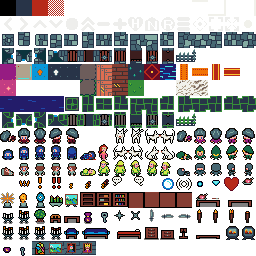
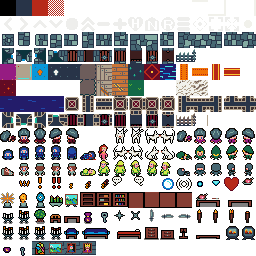
Tileset update (fortress and other tweaks)

Changed region(s): [[0.0, 0.25, 1.0, 0.5], [0.0, 0.3125, 0.0625, 0.375]]

diff --git a/src/tilesets.ts b/src/tilesets.ts
@@ -20,7 +20,9 @@ export type TileSet = {
     touchButtons: {[id:string]:TileInfo};
     namedTiles: {[id:string]:TileInfo};
     terrainTiles: Array<TileInfo>;
+    fortressTerrainTiles: Array<TileInfo>;
     itemTiles: Array<TileInfo>;
+    fortressItemTiles: Array<TileInfo>;
     guardStateTiles: Array<TileInfo>;
     npcTiles: Array<TileInfo>;
     playerTiles: {
@@ -154,6 +156,41 @@ const tileSet31Color:TileSet = {
         {textureIndex: r([8,   4]),  color:colorGroundLit,    unlitColor:colorGroundUnlit}, // TerrainType.GardenDoorNS,
         {textureIndex: r([8,   4]),  color:colorGroundLit,    unlitColor:colorGroundUnlit}, // TerrainType.GardenDoorEW,
     ], 
+    fortressTerrainTiles: [ 
+        {textureIndex: r([5,   5]),   color:colorGroundLit,    unlitColor:colorGroundUnlit},// TerrainType.GroundNormal,
+        {textureIndex: r([8,   5]),  color:colorGroundLit,    unlitColor:colorGroundUnlit}, // TerrainType.GroundGrass,
+        {textureIndex: r([10,  4]),  color:colorGroundLit,    unlitColor:colorGroundUnlit}, // TerrainType.GroundWater,
+        {textureIndex: r([0,   5]),  color:colorGroundLit,    unlitColor:colorGroundUnlit}, // TerrainType.GroundMarble,
+        {textureIndex: r([6,   4]),  color:colorWoodFloorLit, unlitColor:colorGroundUnlit}, // TerrainType.GroundWood,
+        {textureIndex: r([6,   5]),  color:colorWoodFloorLit, unlitColor:colorGroundUnlit}, // TerrainType.GroundWoodCreaky,
+        {textureIndex: r([5,   4]),  color:colorGroundLit,    unlitColor:colorGroundUnlit}, // TerrainType.GroundVault,
+        {textureIndex: r([4,   6]),  color:colorWallLit,      unlitColor:colorWallUnlit},   // TerrainType.Wall0000,
+        {textureIndex: r([2,   2]),  color:colorWallLit,      unlitColor:colorWallUnlit},   // TerrainType.Wall0001,
+        {textureIndex: r([4,   2]),  color:colorWallLit,      unlitColor:colorWallUnlit},   // TerrainType.Wall0010,
+        {textureIndex: r([6,   6]),  color:colorWallLit,      unlitColor:colorWallUnlit},   // TerrainType.Wall0011,
+        {textureIndex: r([1,   6]),  color:colorWallLit,      unlitColor:colorWallUnlit},   // TerrainType.Wall0100,
+        {textureIndex: r([9,   6]),  color:colorWallLit,      unlitColor:colorWallUnlit},   // TerrainType.Wall0101,
+        {textureIndex: r([8,   6]),  color:colorWallLit,      unlitColor:colorWallUnlit},   // TerrainType.Wall0110,
+        {textureIndex: r([12,  6]),  color:colorWallLit,      unlitColor:colorWallUnlit},   // TerrainType.Wall0111,
+        {textureIndex: r([3,   6]),  color:colorWallLit,      unlitColor:colorWallUnlit},   // TerrainType.Wall1000,
+        {textureIndex: r([10,  6]),  color:colorWallLit,      unlitColor:colorWallUnlit},   // TerrainType.Wall1001,
+        {textureIndex: r([7,   6]),  color:colorWallLit,      unlitColor:colorWallUnlit},   // TerrainType.Wall1010,
+        {textureIndex: r([14,  6]),  color:colorWallLit,      unlitColor:colorWallUnlit},   // TerrainType.Wall1011,
+        {textureIndex: r([5,   6]),  color:colorWallLit,      unlitColor:colorWallUnlit},   // TerrainType.Wall1100,
+        {textureIndex: r([13,  6]),  color:colorWallLit,      unlitColor:colorWallUnlit},   // TerrainType.Wall1101,
+        {textureIndex: r([11,  6]),  color:colorWallLit,      unlitColor:colorWallUnlit},   // TerrainType.Wall1110,
+        {textureIndex: r([15,  6]),  color:colorWallLit,      unlitColor:colorWallUnlit},   // TerrainType.Wall1111,
+        {textureIndex: r([0,   7]),  color:colorWallLit,      unlitColor:colorWallUnlit},   // TerrainType.OneWayWindowE,
+        {textureIndex: r([2,   7]),  color:colorWallLit,      unlitColor:colorWallUnlit},   // TerrainType.OneWayWindowW,
+        {textureIndex: r([3,   7]),  color:colorWallLit,      unlitColor:colorWallUnlit},   // TerrainType.OneWayWindowN,
+        {textureIndex: r([1,   7]),  color:colorWallLit,      unlitColor:colorWallUnlit},   // TerrainType.OneWayWindowS,
+        {textureIndex: r([11,  7]),  color:colorWallLit,      unlitColor:colorWallUnlit},   // TerrainType.PortcullisNS,
+        {textureIndex: r([11,  7]),  color:colorWallLit,      unlitColor:colorWallUnlit},   // TerrainType.PortcullisEW,
+        {textureIndex: r([8,   7]),  color:colorWallLit,      unlitColor:colorWallUnlit},   // TerrainType.DoorNS,
+        {textureIndex: r([5,   7]),  color:colorWallLit,      unlitColor:colorWallUnlit},   // TerrainType.DoorEW,
+        {textureIndex: r([8,   5]),  color:colorGroundLit,    unlitColor:colorGroundUnlit}, // TerrainType.GardenDoorNS,
+        {textureIndex: r([8,   5]),  color:colorGroundLit,    unlitColor:colorGroundUnlit}, // TerrainType.GardenDoorEW,
+    ], 
     itemTiles: [
         {textureIndex: r([3,  13]),  color:colorPreset.white,      unlitColor:colorItemUnlit}, // ItemType.Chair,
         {textureIndex: r([4,  13]),  color:colorPreset.white,      unlitColor:colorItemUnlit}, // ItemType.Table,
@@ -173,6 +210,32 @@ const tileSet31Color:TileSet = {
         {textureIndex: r([6,   3]),  color:colorWallLit,           unlitColor:colorWallUnlit}, // ItemType.LockedDoorEW,
         {textureIndex: r([11,  3]),  color:colorWallLit,           unlitColor:colorWallUnlit}, // ItemType.PortcullisNS,
         {textureIndex: r([11,  3]),  color:colorWallLit,           unlitColor:colorWallUnlit}, // ItemType.PortcullisEW,
+        {textureIndex: r([0,  13]),  color:colorPreset.white,      unlitColor:colorPreset.white}, // ItemType.TorchUnlit,
+        {textureIndex: r([1,  13]),  color:colorPreset.white,      unlitColor:colorPreset.white}, // ItemType.TorchLit,    
+        {textureIndex: r([12, 13]),  color:colorPreset.yellowTint, unlitColor:colorPreset.yellowTint}, // ItemType.TorchCarry,    
+        {textureIndex: r([0,  15]),  color:colorPreset.white,      unlitColor:colorPreset.white}, // ItemType.PurseCarry,    
+        {textureIndex: r([6,  13]),  color:colorPreset.white,      unlitColor:colorPreset.white}, // ItemType.Key,    
+        {textureIndex: r([1,  15]),  color:colorPreset.white,      unlitColor:colorPreset.white}, // ItemType.KeyCarry,    
+    ],
+    fortressItemTiles: [
+        {textureIndex: r([3,  13]),  color:colorPreset.white,      unlitColor:colorItemUnlit}, // ItemType.Chair,
+        {textureIndex: r([4,  13]),  color:colorPreset.white,      unlitColor:colorItemUnlit}, // ItemType.Table,
+        {textureIndex: r([7,  14]),  color:colorPreset.white,      unlitColor:colorItemUnlit}, // ItemType.BedL,
+        {textureIndex: r([8,  14]),  color:colorPreset.white,      unlitColor:colorItemUnlit}, // ItemType.BedR,
+        {textureIndex: r([10, 14]),  color:colorPreset.white,      unlitColor:colorItemUnlit}, // ItemType.DrawersShort,
+        {textureIndex: r([9,  14]),  color:colorPreset.white,      unlitColor:colorItemUnlit}, // ItemType.DrawersTall,
+        {textureIndex: r([7,  12]),  color:colorPreset.white,      unlitColor:colorItemUnlit}, // ItemType.Bookshelf,
+        {textureIndex: r([5,  12]),  color:colorPreset.white,      unlitColor:colorItemUnlit}, // ItemType.Shelf,
+        {textureIndex: r([14, 14]),  color:colorPreset.white,      unlitColor:colorItemUnlit}, // ItemType.Stove,
+        {textureIndex: r([2,  13]),  color:colorPreset.white,      unlitColor:colorItemUnlit}, // ItemType.Bush,
+        {textureIndex: r([5,  13]),  color:colorPreset.white,      unlitColor:colorPreset.white}, // ItemType.Coin,
+        {textureIndex: r([15, 11]),  color:colorPreset.white,      unlitColor:colorPreset.white}, // ItemType.Health,
+        {textureIndex: r([7,   7]),  color:colorWallLit,           unlitColor:colorWallUnlit}, // ItemType.DoorNS,
+        {textureIndex: r([4,   7]),  color:colorWallLit,           unlitColor:colorWallUnlit}, // ItemType.DoorEW,
+        {textureIndex: r([9,   7]),  color:colorWallLit,           unlitColor:colorWallUnlit}, // ItemType.LockedDoorNS,
+        {textureIndex: r([6,   7]),  color:colorWallLit,           unlitColor:colorWallUnlit}, // ItemType.LockedDoorEW,
+        {textureIndex: r([11,  7]),  color:colorWallLit,           unlitColor:colorWallUnlit}, // ItemType.PortcullisNS,
+        {textureIndex: r([11,  7]),  color:colorWallLit,           unlitColor:colorWallUnlit}, // ItemType.PortcullisEW,
         {textureIndex: r([0,  13]),  color:colorPreset.white,      unlitColor:colorPreset.white}, // ItemType.TorchUnlit,
         {textureIndex: r([1,  13]),  color:colorPreset.white,      unlitColor:colorPreset.white}, // ItemType.TorchLit,    
         {textureIndex: r([12, 13]),  color:colorPreset.yellowTint, unlitColor:colorPreset.yellowTint}, // ItemType.TorchCarry,    

diff --git a/src/game.ts b/src/game.ts
@@ -1618,6 +1618,7 @@ function renderWorld(state: State, renderer: Renderer) {
     updateAnimatedLight(state.gameMap.cells, state.lightStates, state.seeAll);
 
     // Draw terrain
+    const terrTiles = state.level<9?renderer.tileSet.terrainTiles:renderer.tileSet.fortressTerrainTiles
 
     for (let x = 0; x < state.gameMap.cells.sizeX; ++x) {
         for (let y = state.gameMap.cells.sizeY-1; y >= 0 ; --y) { //Render top to bottom for overlapped 3/4 view tiles
@@ -1636,9 +1637,9 @@ function renderWorld(state: State, renderer: Renderer) {
             // Draw tile
             if (terrainType === TerrainType.PortcullisEW &&
                 state.gameMap.guards.find((guard)=>guard.pos[0]==x && guard.pos[1]==y)) {
-                renderer.addGlyphLit4(x, y, x+1, y+1, renderer.tileSet.terrainTiles[TerrainType.PortcullisNS], lv);
+                renderer.addGlyphLit4(x, y, x+1, y+1, terrTiles[TerrainType.PortcullisNS], lv);
             } else {
-                const tile = cell.animation? cell.animation.currentTile():renderer.tileSet.terrainTiles[terrainType];
+                const tile = cell.animation? cell.animation.currentTile():terrTiles[terrainType];
                 renderer.addGlyphLit4(x, y, x+1, y+1, tile, lv);
             }
 
@@ -1658,6 +1659,7 @@ function renderWorld(state: State, renderer: Renderer) {
     }
 
     // Draw items
+    const itemTiles = state.level<9?renderer.tileSet.itemTiles:renderer.tileSet.fortressItemTiles
 
     for(const item of state.gameMap.items) {
         let x = item.pos[0];
@@ -1670,7 +1672,7 @@ function renderWorld(state: State, renderer: Renderer) {
         const lv = litVertices(x, y, state.gameMap.cells);
         if (terrainType === TerrainType.PortcullisEW &&
             state.gameMap.guards.find((guard)=>guard.pos[0]==x && guard.pos[1]==y)) {
-            renderer.addGlyphLit4(x, y, x + 1, y + 1, renderer.tileSet.itemTiles[ItemType.PortcullisNS], lv);
+            renderer.addGlyphLit4(x, y, x + 1, y + 1, itemTiles[ItemType.PortcullisNS], lv);
         } else {
             //Don't draw the door if someone standing in it
             if([TerrainType.DoorEW, TerrainType.DoorNS].includes(terrainType)) {
@@ -1680,7 +1682,7 @@ function renderWorld(state: State, renderer: Renderer) {
             }
             const ti = item.animation ?
                 item.animation.currentTile() :
-                renderer.tileSet.itemTiles[item.type];
+                itemTiles[item.type];
             if (item.animation instanceof SpriteAnimation) {
                 const o = item.animation.offset;
                 x += o[0];
